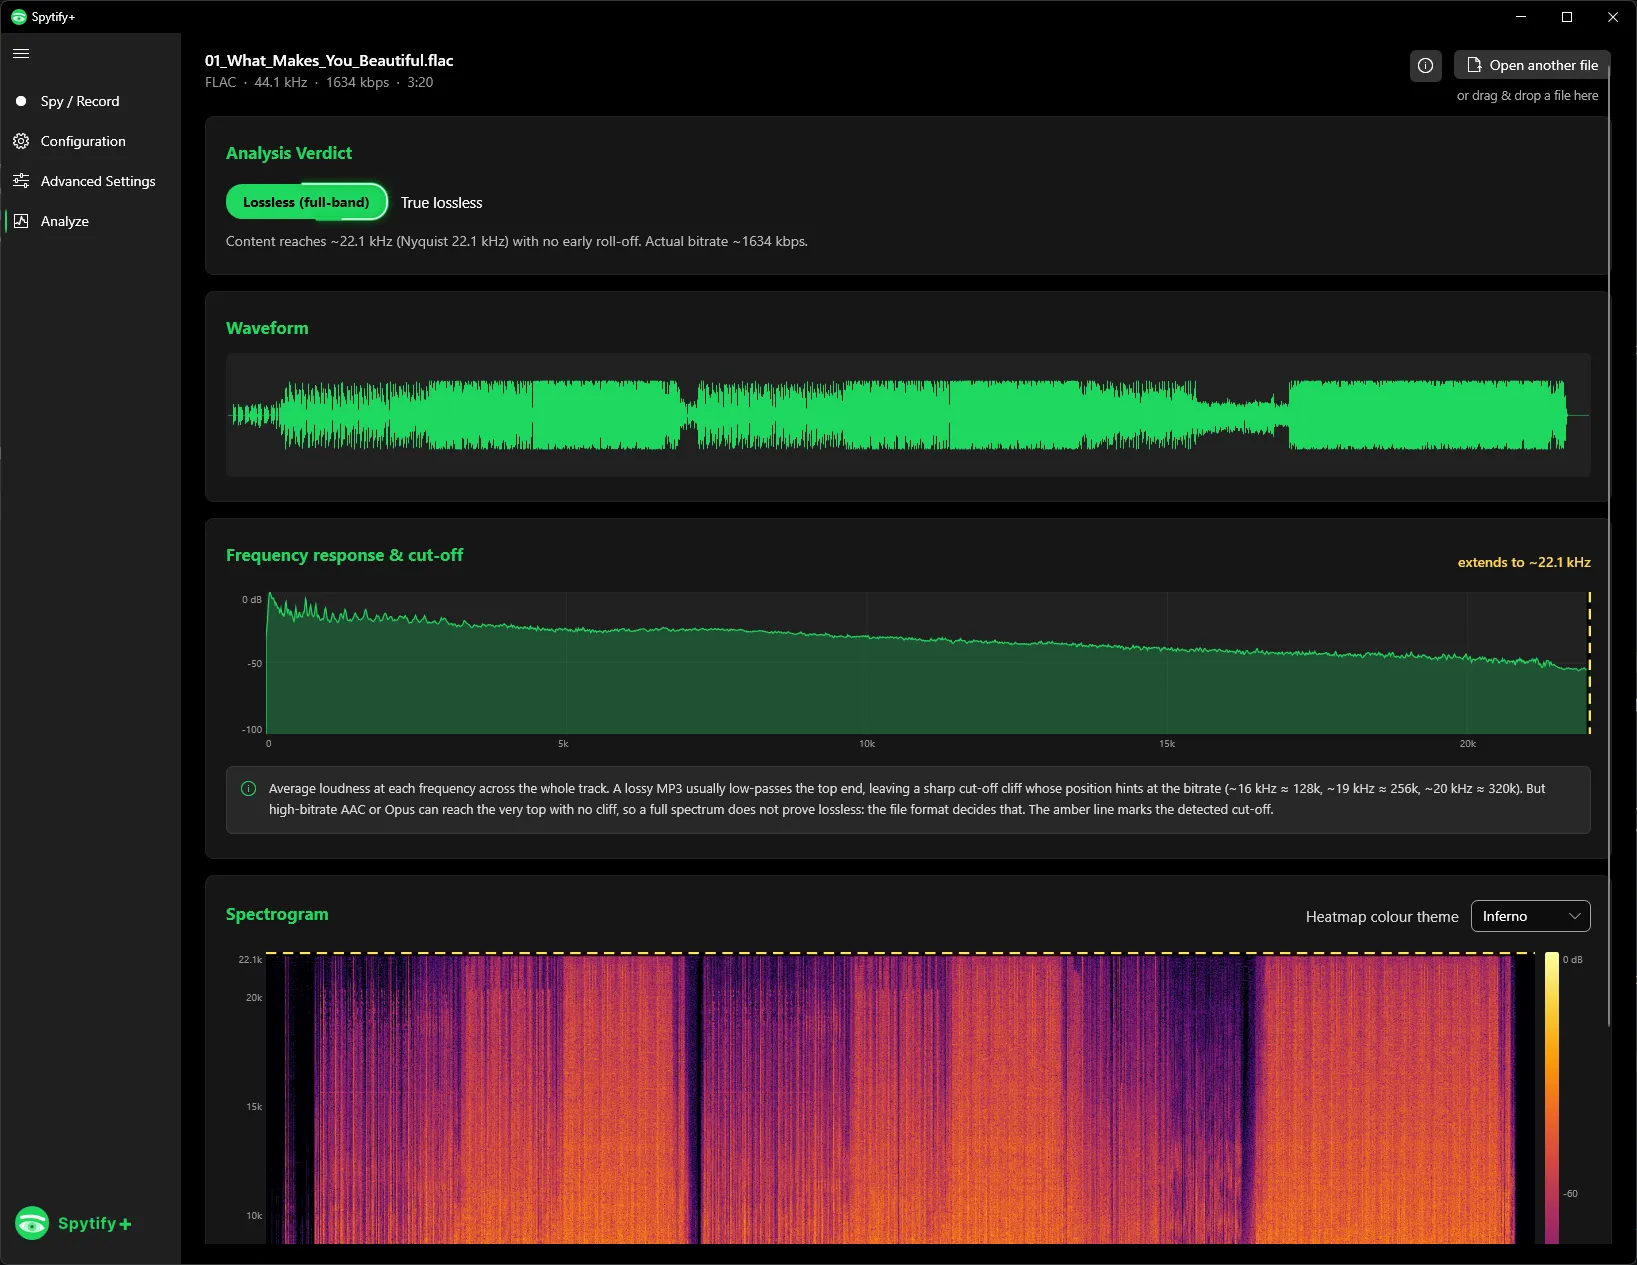
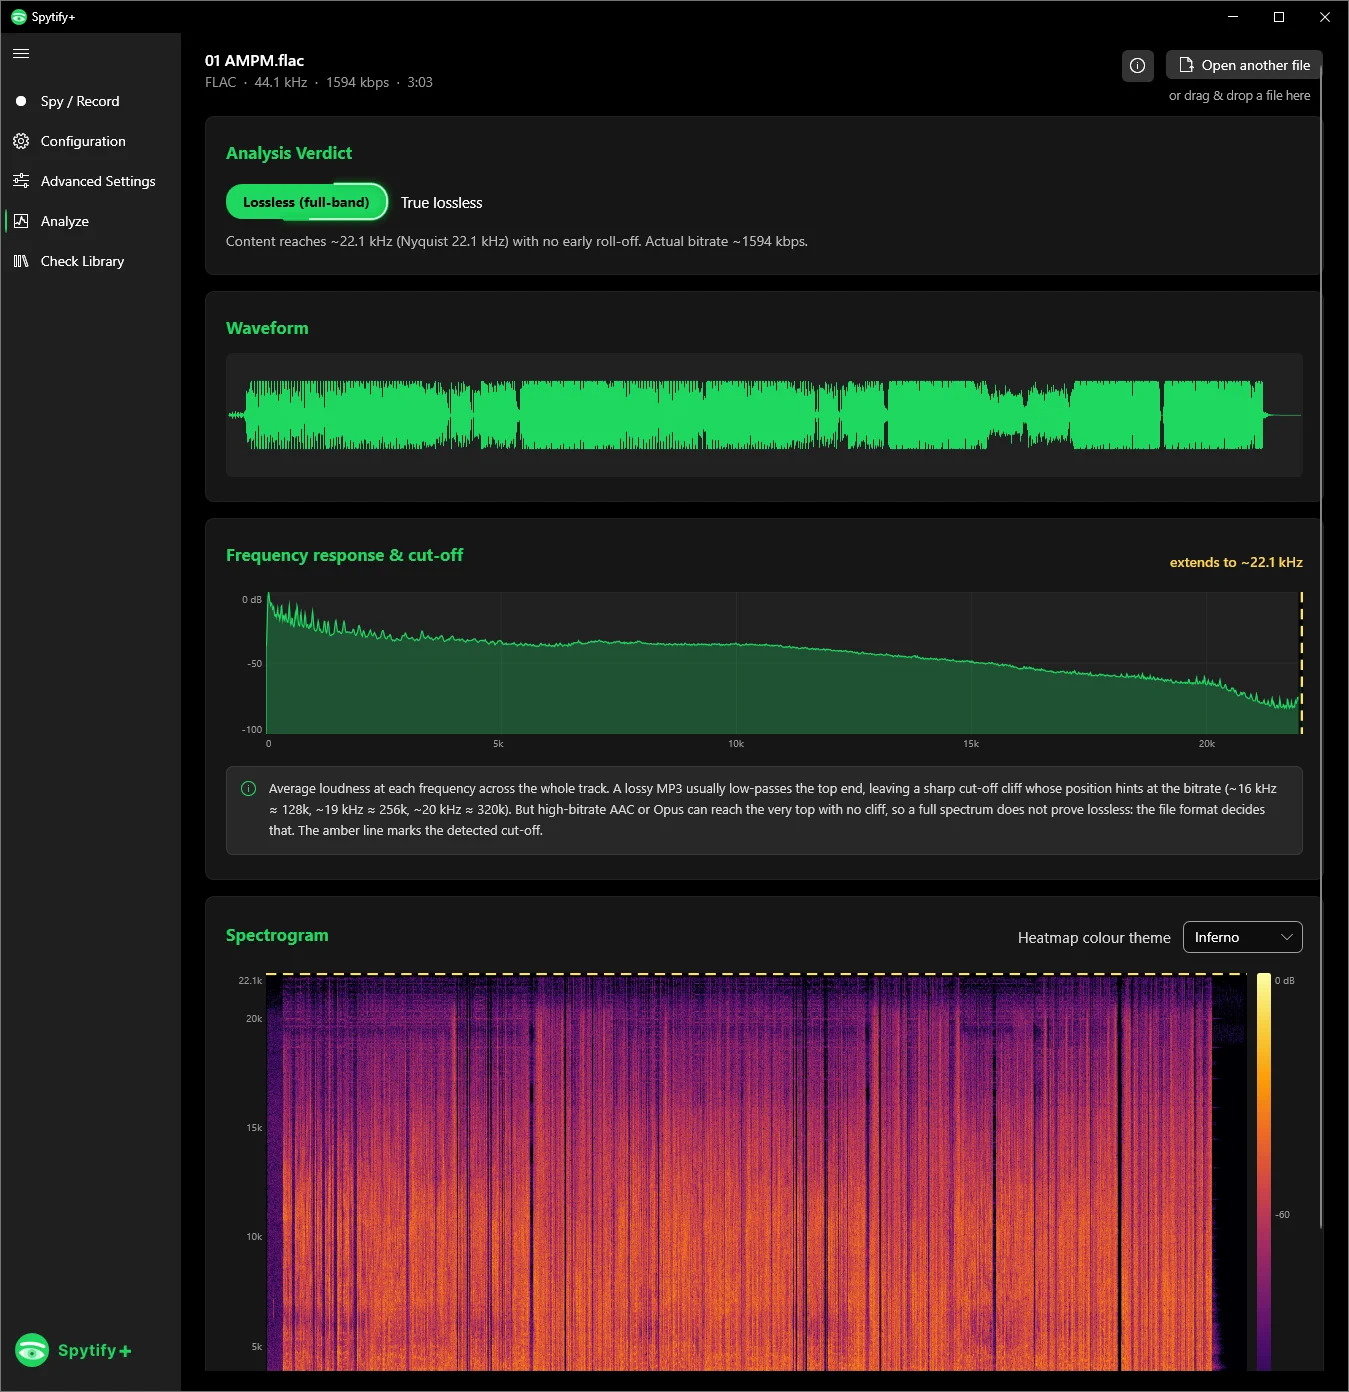
web: replace screenshots with the new higher-res captures
Convert the new PNG screenshots to WebP (bundled ffmpeg, quality 86) and
update the width/height attributes to the new intrinsic sizes
(record/templates 1349x737, analyze 1349x1392) so the aspect ratio and
CLS reservation stay correct.

diff --git a/web/src/App.tsx b/web/src/App.tsx
@@ -325,16 +325,16 @@ export default function App() {
           >
             <Screenshot
               src={recordShot}
-              w={1092}
-              h={676}
+              w={1349}
+              h={737}
               alt="Spytify+ Record tab: the player card with live album art and the capture log"
               caption="Recording, with a live now-playing card and the capture log"
               onZoom={setZoom}
             />
             <Screenshot
               src={analyzeShot}
-              w={1637}
-              h={1265}
+              w={1349}
+              h={1392}
               alt="Spytify+ Analyze tab: waveform, frequency response and Inferno spectrogram with a lossless verdict"
               caption="Analyzing a file: waveform, spectrogram and a plain-English verdict"
               onZoom={setZoom}
@@ -413,8 +413,8 @@ export default function App() {
           <Reveal className="split__media" delay={0.1}>
             <Screenshot
               src={templatesShot}
-              w={1000}
-              h={640}
+              w={1349}
+              h={737}
               alt="Spytify+ filename and folder template builder with a click-to-insert tag legend"
               onZoom={setZoom}
             />